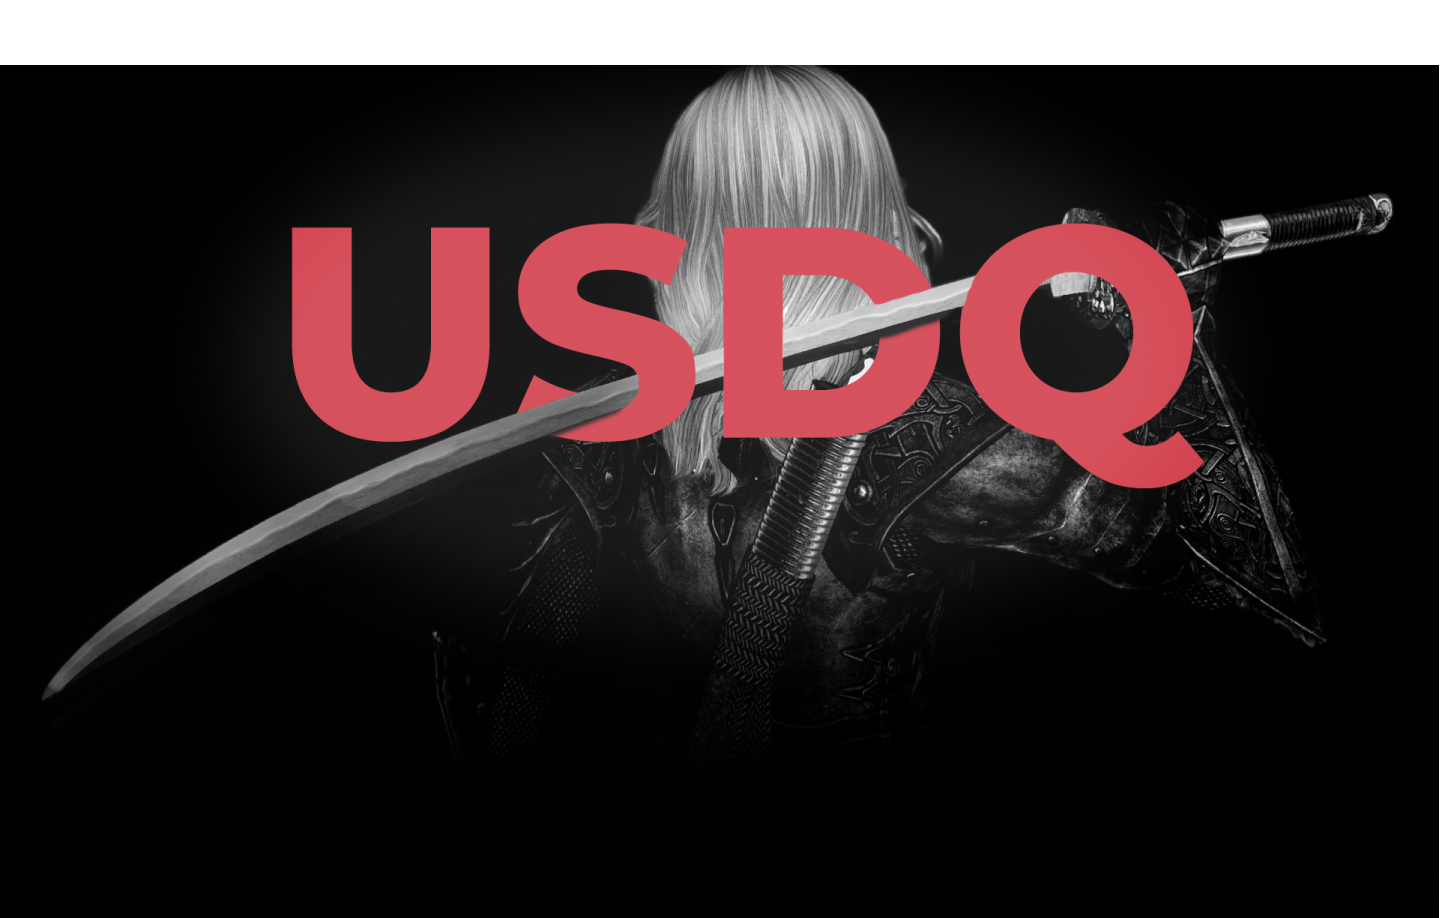
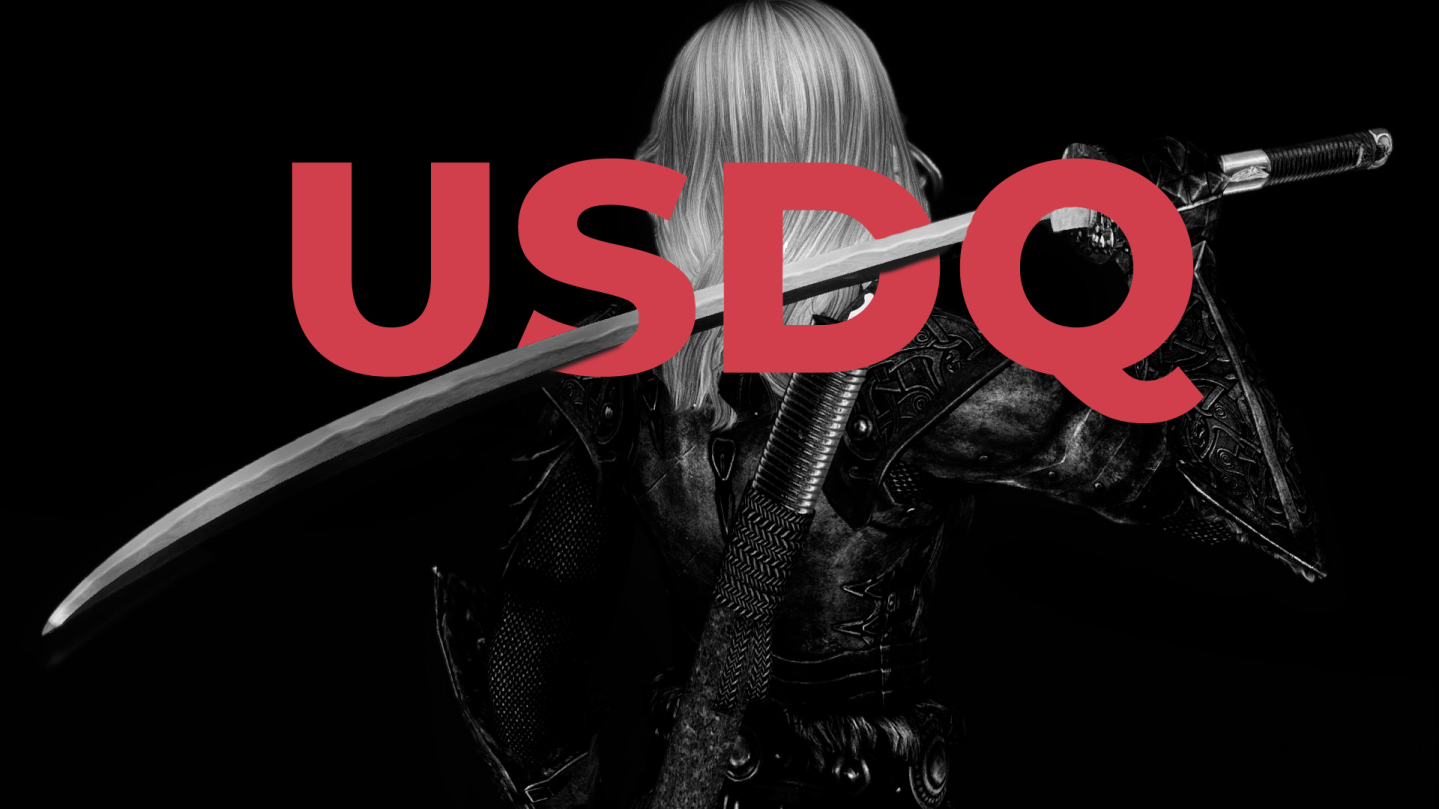
[fix] styles for first block

diff --git a/src/components/sections/welcomeImage/section_welcome-image.less b/src/components/sections/welcomeImage/section_welcome-image.less
@@ -7,6 +7,30 @@
   color: #fff;
   flex-direction: column;
   align-items: center;
+  &:after {
+    content: '';
+    left: 0;
+    top: 0;
+    position: absolute;
+    width: 100%;
+    height: 100%;
+    background-color: #000000;
+    z-index: -3;
+  }
+  &:before {
+    content: '';
+    left: 0;
+    bottom: 0;
+    position: absolute;
+    width: 100%;
+    height: 40rem;
+    z-index: -1;
+    background: linear-gradient(
+      358.71deg,
+      #000000 36.99%,
+      rgba(0, 0, 0, 0) 100.44%
+    );
+  }
 
   .blockquote {
     background-color: rgba(255, 255, 255, 0.1);
@@ -29,10 +53,10 @@
 
   .section_welcome-image__background {
     position: absolute;
-    z-index: -1;
+    z-index: -2;
     width: 100%;
     height: 100%;
-    object-fit: cover;
+    object-fit: contain;
   }
 
   .wrapper_shrink {
